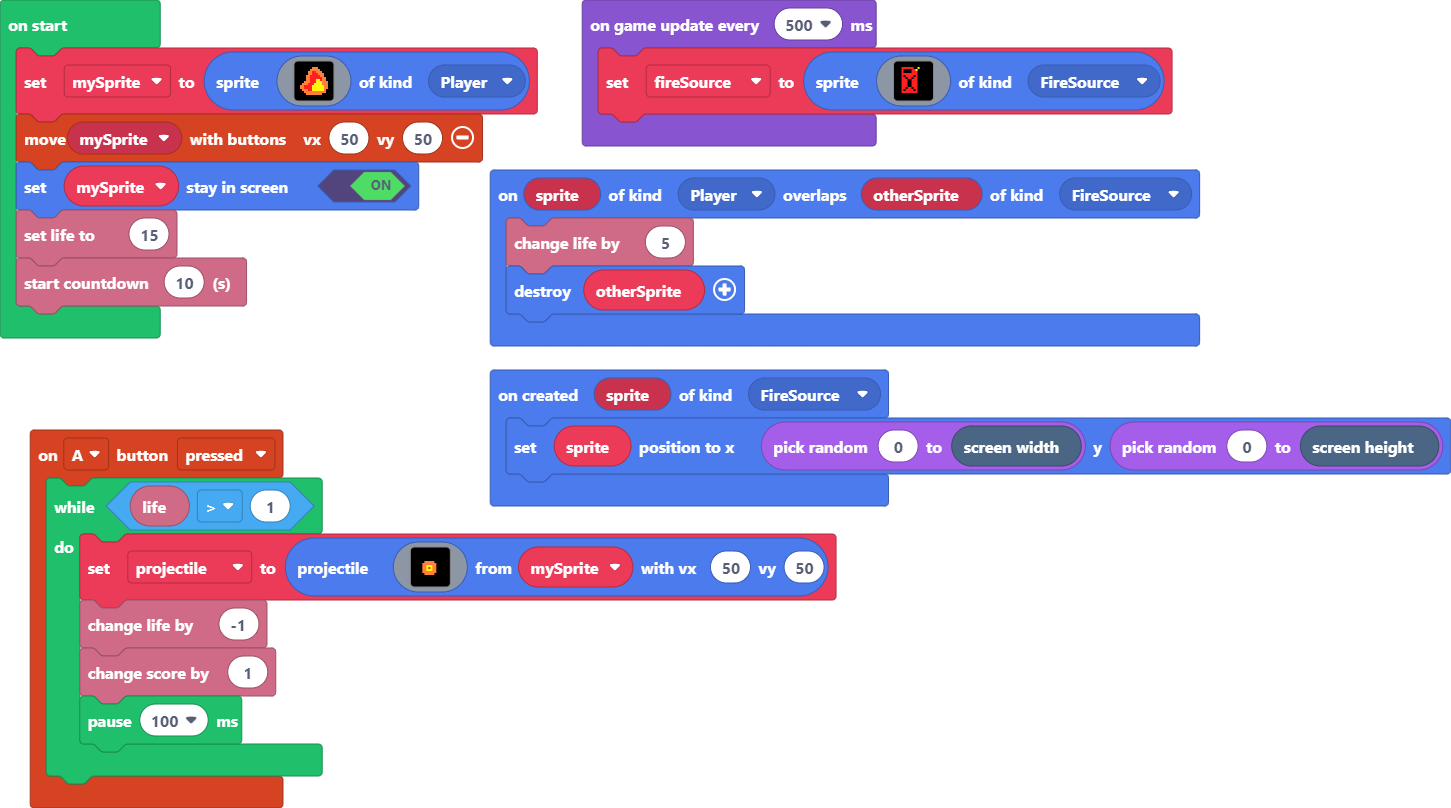
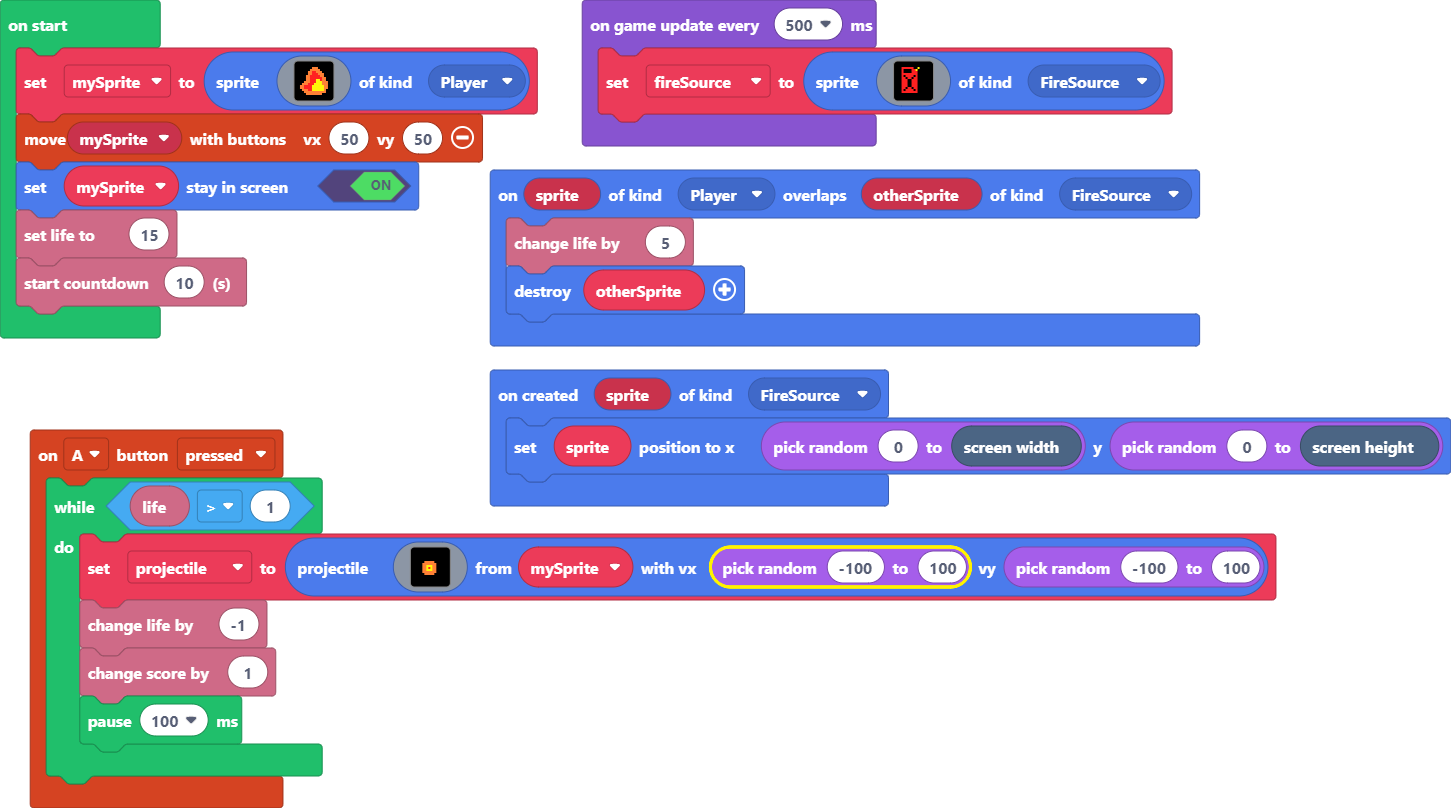
Update main.ts, main.blocks

Changed region(s): [[0.4652, 0.6498, 0.8994, 0.7426]]

diff --git a/main.ts b/main.ts
@@ -25,7 +25,7 @@ controller.A.onEvent(ControllerButtonEvent.Pressed, function () {
             . . . . . . . . . . . . . . . . 
             . . . . . . . . . . . . . . . . 
             . . . . . . . . . . . . . . . . 
-            `, mySprite, 50, 50)
+            `, mySprite, randint(-100, 100), randint(-100, 100))
         info.changeLifeBy(-1)
         info.changeScoreBy(1)
         pause(100)
